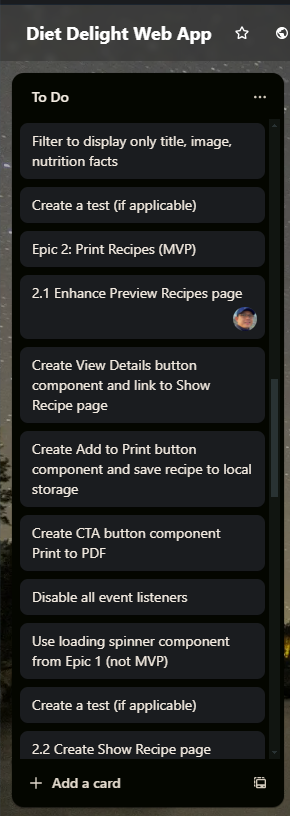
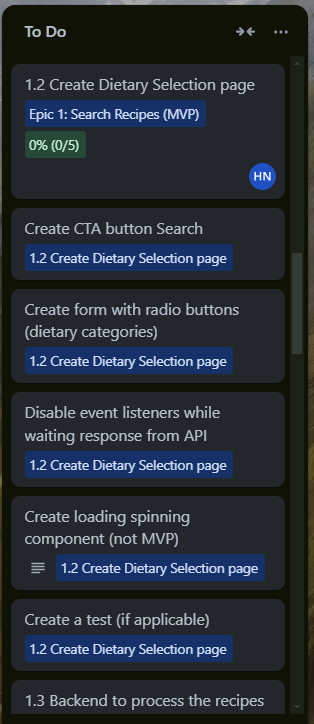
Updated README

diff --git a/README.md b/README.md
@@ -88,14 +88,13 @@ The purpose of Diet Delight is to deliver added value to Fit Life Gym members by
 - Figma - For UI/UX design and prototyping.
 - Trello - For project management, tracking tasks, and collaboration.
 
-
 ## R2: Dataflow Diagram
 
-### MVP 1 and 2
+### Search and Print Recipes (MVP 1 and 2)
 
 ![Epic 1 and 2 dataflow](docs/Epic1&2.png)
 
-### MVP 3
+### Featured Recipes (MVP 3)
 
 ![Epic 3 dataflow](docs/Epic3.png)
 
@@ -109,22 +108,35 @@ The backend communicates with the Edamam API to fetch recipe data when users sea
 
 The backend temporarily saves recipe data retrieved from the third-party Edamam API in the database. This is particularly useful for featured recipes which are selected and stored in the database to be quickly accessed by users without repeatedly querying the external API. The database also manages CRUD operations for user accounts and saved recipes.
 
-
 ## R4: User Stories
+
 ### User Registration and Login
+
 * As a new user, I want to be able to register for an account so that I can access the application's features.
 * As an existing user, I want to be able to log in to my account securely so that I can access my personalized information.
+
 ### Dietary Category Search
+
 * As a user, I want to be able to search for dietary categories (e.g., high-protein, low-carb) based on my fitness goals, so that I can find recipes and meal plans that align with my objectives.
+
 * As a user, I want the search results to be personalized to my fitness goals and dietary preferences, so that I can easily find the most relevant information.
+
 ### Recipe Details
+
 * As a user, I want to be able to view detailed information about each recipe, such as the nutrient composition and recommended portion sizes, so that I can make informed decisions about my dietary choices.
+
 * As a user, I want the recipe details to be presented in a clear and easy-to-understand format, so that I can quickly grasp the key information.
+
 ### Meal Planning and Recipes
+
 * As a user, I want to be able to save my favorite recipes, so that I can easily access them for future meal planning.
+
 * As a user, I want to be able to create and save custom meal plans based on my dietary preferences and fitness goals, so that I can easily follow a personalized nutrition plan.
+
 ### Mobile Accessibility
+
 * As a user, I want the application to be optimized for mobile devices, so that I can access the features and content on the go.
+
 * As a user, I want the experience for mobile devices to be intuitive, so that I can easily navigate the application and find the information I need quickly.
 
 ## R5: Wireframes
@@ -149,10 +161,22 @@ The backend temporarily saves recipe data retrieved from the third-party Edamam 
 
 ![Recipes PDF](docs/5._Print_Recipes.png)
 
-## R6: Screenshots of Trello Board
+## R6: Screenshots of Trello board
+
+Our team used Trello to manage our tasks due to its good visual, straightforward and user-friendly components.
+
+Link to our Trello board --> https://trello.com/b/K1DuOj8t/diet-delight-web-app
+
+![Trello board](./docs/trelloboard.png)
+
 ### 14/08/2024
-![ToDo1.png](./docs/ToDo1.png)
-![ToDo2.png](./docs/ToDo2.png)
-![ToDo3.png](./docs/ToDo3.png)
-![ToDo4.png](./docs/ToDo4.png)
-![ToDo5.png](./docs/ToDo5.png)
+
+![ToDo1.png](./docs/ToDo1.png)  
+![ToDo2.png](./docs/ToDo2.png)  
+![ToDo3.png](./docs/ToDo3.png)  
+![ToDo4.png](./docs/ToDo4.png)  
+![ToDo5.png](./docs/ToDo5.png)  
+![ToDo6.png](./docs/ToDo6.png)  
+![ToDo7.png](./docs/ToDo7.png)  
+![ToDo8.png](./docs/ToDo8.png)  
+![ToDo9.png](./docs/ToDo9.png)  
